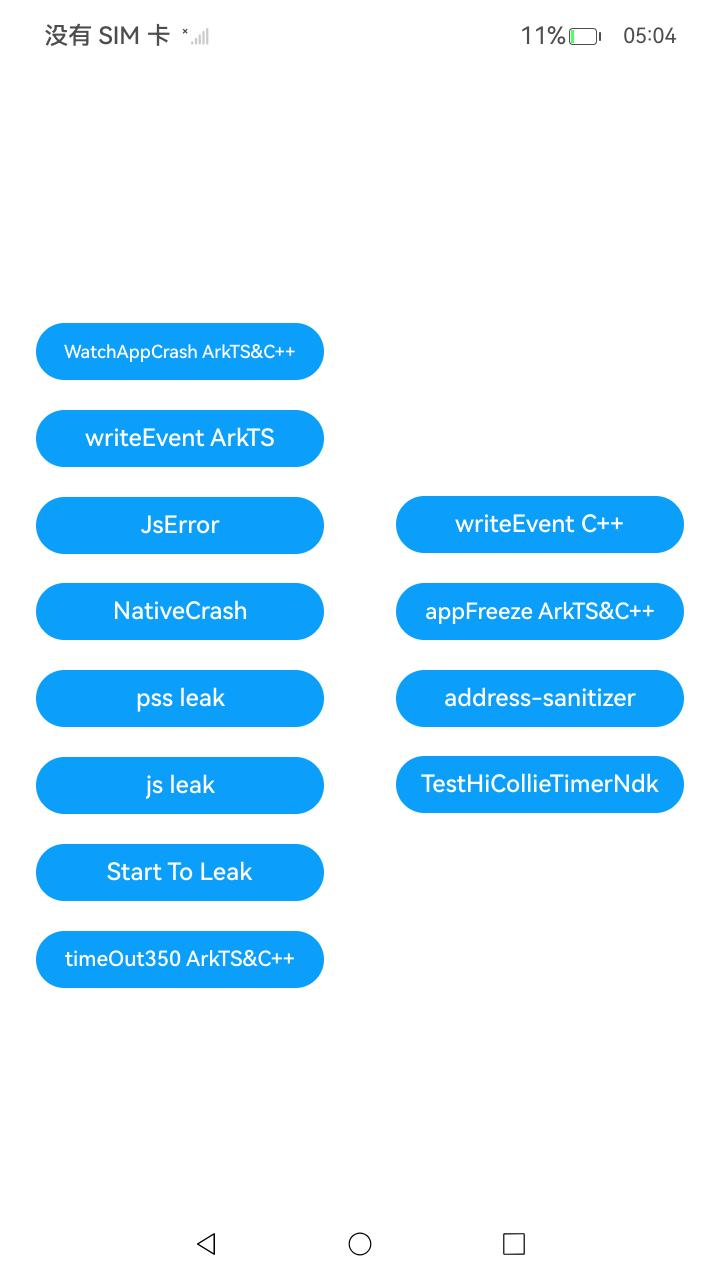
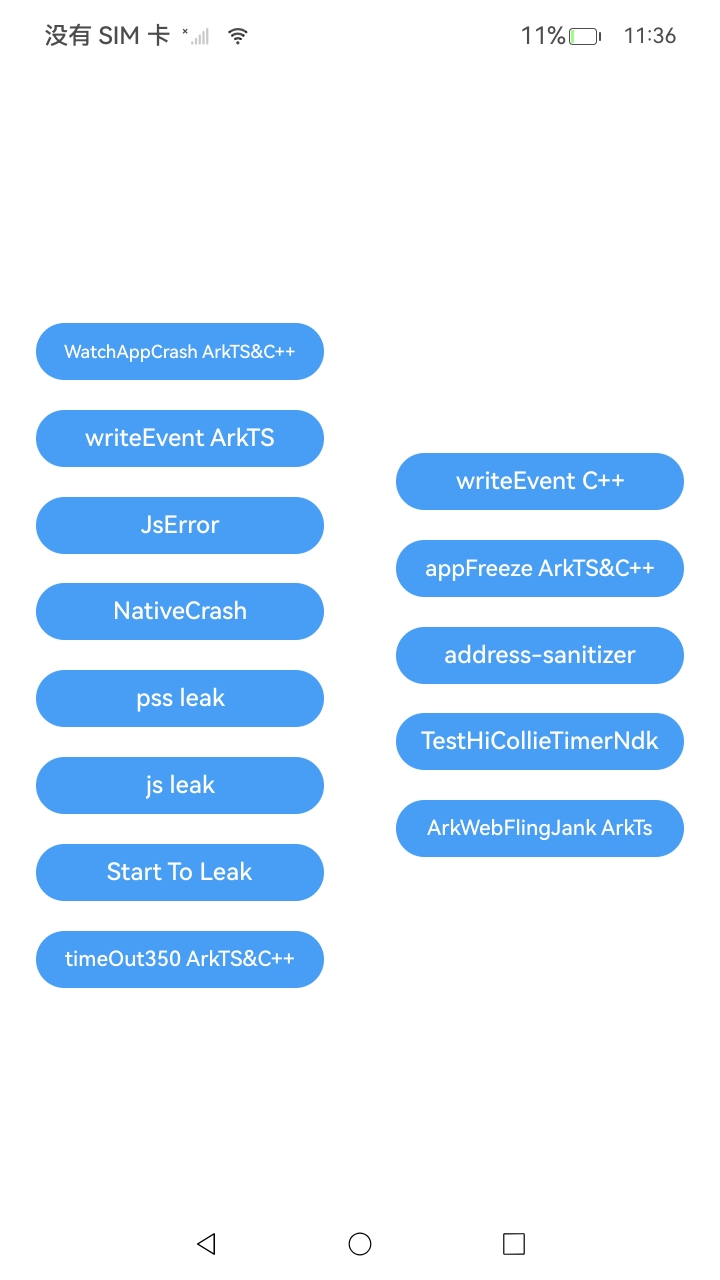
补充ArkWeb抛滑卡顿检测同源代码

diff --git a/code/DocsSample/PerformanceAnalysisKit/HiAppEvent/EventSub/README_zh.md b/code/DocsSample/PerformanceAnalysisKit/HiAppEvent/EventSub/README_zh.md
@@ -553,7 +553,7 @@ entry/src/main
 ###  约束与限制
 
 1. 本示例仅支持标准系统上运行，支持设备：RK3568；
-2. 本示例已适配API 23版本SDK，版本号：6.0.0.47，镜像版本号：OpenHarmony 6.1.0.18；
+2. 本示例已适配API 23版本SDK，版本号：6.1.0.23，镜像版本号：OpenHarmony 6.1.0.23；
 3. 本示例需要使用DevEco Studio 6.0.0 Release(6.0.0.868)及以上版本才可编译运行。
 
 ### 下载
